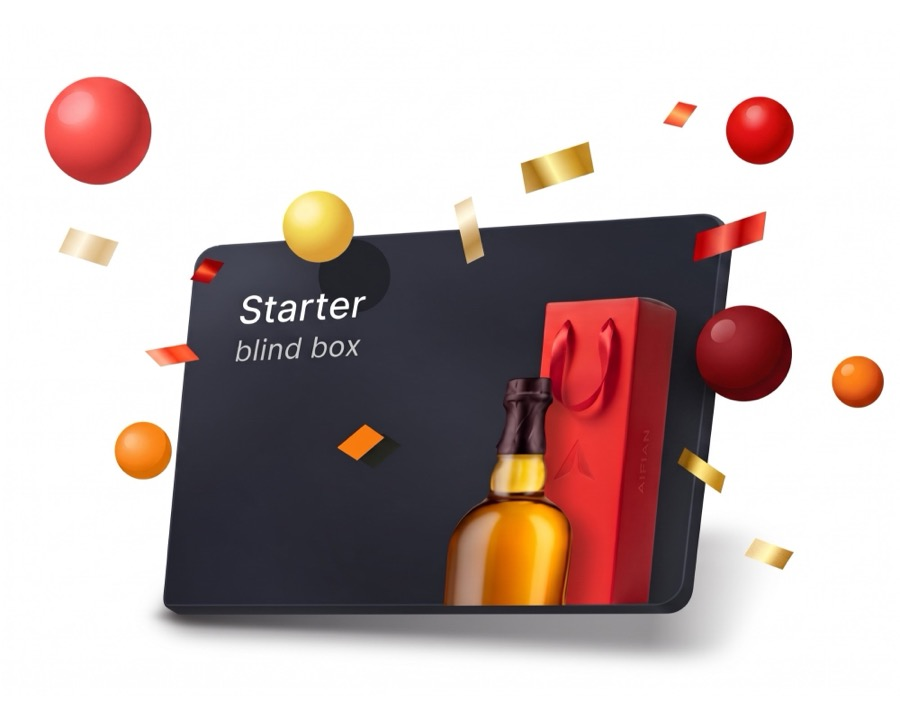
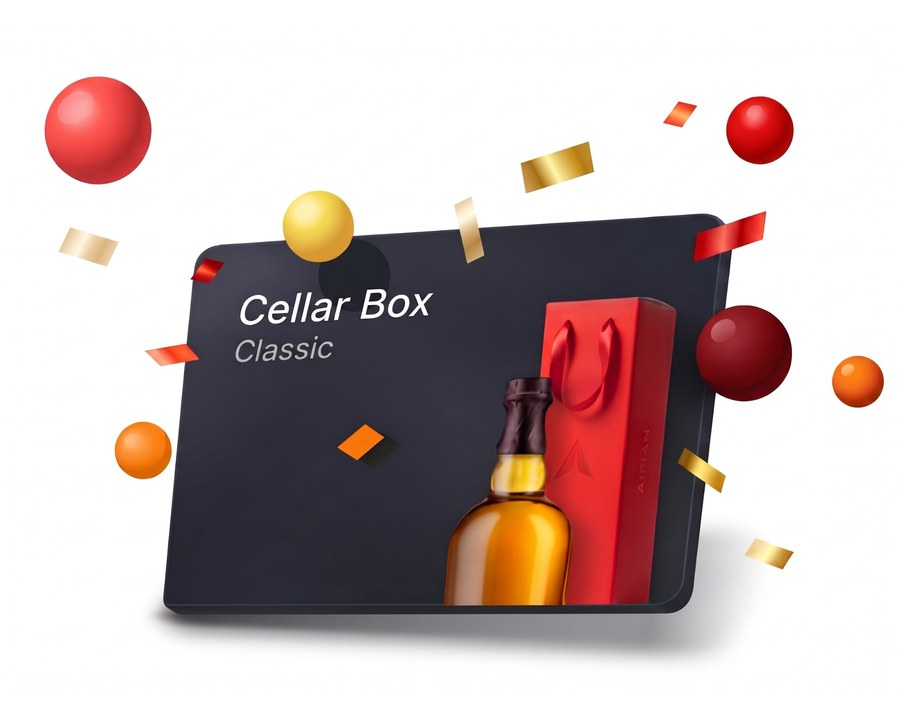
v14 酒品盲盒改名藏酒盒，名莊藏酒盒內頁改深色版型
- 名稱改為經典藏酒盒／名莊藏酒盒，兌換頁區塊標題改為「藏酒盒」
- 名莊藏酒盒內頁改 gray/800 深色底，拿掉概覽標題與粗體首句
- 盒內酒款改成酒單列表，不放酒瓶照與單支市值
- 層級配色改為金、棕、藍
- 怎麼開改成單卡三欄（編號、圖示、文字），更新步驟文案
- 更新兩盒的商品圖、禮物紀錄圖與開禮物結果圖（去背）

Changed region(s): [[0.2489, 0.3972, 0.4978, 0.5194]]

diff --git a/app/v14/_components/ProductSheet.tsx b/app/v14/_components/ProductSheet.tsx
@@ -26,6 +26,23 @@ const SHEET_TOP_GAP = 72;
 // 位置各自貼著它說明的東西，但看起來要是同一類的字
 const NOTE_CLASS = "text-[13px] leading-[1.6] text-[#a1a5ac]";
 
+// 「怎麼開」三步的線條圖示：收到禮物、拆開盒子、存進酒窖（酒瓶）
+const STEP_ICONS = [
+  <>
+    <rect x="3" y="8" width="18" height="4" rx="1" />
+    <path d="M12 8v13M19 12v7a2 2 0 0 1-2 2H7a2 2 0 0 1-2-2v-7" />
+    <path d="M7.5 8a2.5 2.5 0 0 1 0-5C10 3 12 8 12 8s2-5 4.5-5a2.5 2.5 0 0 1 0 5" />
+  </>,
+  <>
+    <path d="M12 3 20 7.5v9L12 21l-8-4.5v-9L12 3Z" />
+    <path d="m4 7.5 8 4.5 8-4.5M12 12v9" />
+  </>,
+  <>
+    <path d="M10 2h4M10.5 2v4.5c0 .8-.5 1.4-1.1 1.9A4.5 4.5 0 0 0 7.5 12v8a2 2 0 0 0 2 2h5a2 2 0 0 0 2-2v-8a4.5 4.5 0 0 0-1.9-3.6c-.6-.5-1.1-1.1-1.1-1.9V2" />
+    <path d="M7.5 14h9" />
+  </>,
+];
+
 // 注意事項小字：前面帶一個點，一眼看得出是條列的提醒。
 // 點跟文字分成兩欄，第二行會對齊第一行的文字，不會繞到點的下面
 function Note({
@@ -134,22 +151,33 @@ export default function ProductSheet({
   // 酒品盲盒也是一般商品，細節內容（盒內酒款、價值區間、機率）從盲盒資料產生
   const detail = blindBoxDetail(card.id) ?? PRODUCT_DETAILS[card.id];
   const added = addedIds.includes(card.id);
+  // 名莊藏酒盒（有機率卡的盒子）整頁用深色底，跟一般商品的白底區隔出收藏感；
+  // 機率卡、保底區塊、怎麼開這幾段只有深色版，共用的標題、價格、概覽、底部操作列才需要分兩套
+  const dark = !!detail?.odds;
+  const ink = dark ? "text-white" : "text-gray-800";
   // 概覽：一般商品放在價格下面第一段；盲盒（有機率卡）也放最上面，先講盒裡是什麼酒，
-  // 再接保底區塊與盒內酒款
+  // 再接保底區塊與盒內酒款。名莊藏酒盒（深色頁）不放「概覽 by AIFIAN」標題，
+  // 第一句也不用粗體，價格下面直接接一段介紹
   const overviewBlock = detail && (
     <div className="mt-7">
-      <div className="mb-3 flex items-center justify-between">
-        <p className="text-[15px] font-bold text-gray-800">概覽</p>
-        <p className="text-[13px] text-[#a1a5ac]">
-          {detail.overviewSource ?? "AI 整理"}
-        </p>
-      </div>
+      {!dark && (
+        <div className="mb-3 flex items-center justify-between">
+          <p className={`text-[15px] font-bold ${ink}`}>概覽</p>
+          <p className="text-[13px] text-[#a1a5ac]">
+            {detail.overviewSource ?? "AI 整理"}
+          </p>
+        </div>
+      )}
       {detail.overviewLead && (
-        <p className="mb-3 text-[16px] font-bold leading-[1.6] text-gray-800">
+        <p className={`mb-3 text-[16px] leading-[1.6] ${dark ? "" : "font-bold"} ${ink}`}>
           {detail.overviewLead}
         </p>
       )}
-      <p className="whitespace-pre-line text-[16px] leading-[1.6] text-gray-800">
+      <p
+        className={`whitespace-pre-line text-[16px] leading-[1.6] ${
+          dark ? "text-white/75" : "text-gray-800"
+        }`}
+      >
         {detail.overview}
       </p>
     </div>
@@ -207,7 +235,7 @@ export default function ProductSheet({
           if (Math.abs(dx) > 45 && Math.abs(dx) > Math.abs(dy))
             nav(dx < 0 ? 1 : -1);
         }}
-        className={`absolute flex flex-col overflow-hidden bg-white ${
+        className={`absolute flex flex-col overflow-hidden ${dark ? "bg-gray-800" : "bg-white"} ${
           isSheet
             ? "inset-x-0 bottom-0 rounded-t-[20px] shadow-[0_-8px_24px_rgba(0,0,0,0.12)]"
             : "inset-0"
@@ -260,13 +288,15 @@ export default function ProductSheet({
             />
 
             <div className="px-5 pb-6 pt-[18px]">
-              <p className="text-[21px] font-medium leading-[1.4] text-gray-800">
+              <p className={`text-[21px] font-medium leading-[1.4] ${ink}`}>
                 {detail?.fullName ?? card.name}
               </p>
               {/* 價格：跟兌換列表、對話商品卡同一套說法，原價加刪除線、下面是折抵後要付的，
                   點進來不會又變回原價。試算扣掉購物車裡其他商品已經佔掉的回饋 */}
               <div className="mt-2.5 flex flex-col gap-1">
-                <p className="text-[13px] leading-4 text-[#4a5565]">
+                <p
+                  className={`text-[13px] leading-4 ${dark ? "text-white/60" : "text-[#4a5565]"}`}
+                >
                   折抵後價格{" "}
                   <span className="line-through">
                     NT$ {card.price.toLocaleString()}
@@ -274,7 +304,7 @@ export default function ProductSheet({
                 </p>
                 <p
                   className={`text-[24px] font-bold ${
-                    priced.fullyCovered ? "text-brand" : "text-gray-800"
+                    priced.fullyCovered ? "text-brand" : ink
                   }`}
                 >
                   NT$ {money0(priced.shortfall)}
@@ -284,12 +314,12 @@ export default function ProductSheet({
               {detail?.odds && overviewBlock}
 
               {/* 盒內酒款：參考 IcyBox 的 What's inside，每一層一個標題（色塊＋機率＋價值區間），
-                  底下三欄酒款卡（酒瓶照、市值、酒名），一眼看到會開到什麼。用格狀不用橫向捲動，
+                  底下是酒單列表（只有酒名），一眼看到會開到什麼。不用橫向捲動，
                   才不會跟細節頁左右滑換商品的手勢打架 */}
               {detail?.odds && (
                 <div className="mt-7">
                   <div className="mb-3 flex items-baseline justify-between">
-                    <p className="text-[15px] font-bold text-gray-800">盒內酒款</p>
+                    <p className="text-[15px] font-bold text-white">盒內酒款</p>
                     <p className="text-[13px] text-[#a1a5ac]">
                       {detail.odds.tiers.reduce((n, t) => n + t.wines.length, 0)} 款
                     </p>
@@ -306,40 +336,47 @@ export default function ProductSheet({
                             >
                               {t.label}
                             </span>
-                            <p className="mt-1 text-[13px] text-gray-500">{t.range}</p>
+                            <p className="mt-1 text-[13px] text-white/55">{t.range}</p>
                           </div>
                           <p className="shrink-0 leading-none">
-                            <span className="mr-1 text-[12px] text-gray-500">機率</span>
-                            <span className="text-[24px] font-bold tabular-nums text-gray-800">
+                            <span className="mr-1 text-[12px] text-white/55">機率</span>
+                            <span className="text-[24px] font-bold tabular-nums text-white">
                               {t.pct}%
                             </span>
                           </p>
                         </div>
-                        <div className="mb-3 mt-2 h-1.5 overflow-hidden rounded-full bg-gray-100">
+                        <div className="mb-3 mt-2 h-1.5 overflow-hidden rounded-full bg-white/10">
                           <div
                             className="h-full rounded-full"
                             style={{ width: `${Math.max(t.pct, 2)}%`, background: t.color }}
                           />
                         </div>
-                        <div className="grid grid-cols-3 gap-x-2.5 gap-y-4">
+                        {/* 酒單列表：不放酒瓶照、不放單支市值（層級標題已有價值區間），一支酒一行，點了開酒款細節頁 */}
+                        <div className="flex flex-col">
                           {t.wines.map((w) => (
                             <button
                               key={w.id}
                               type="button"
                               onClick={() => WINE_DETAILS[w.id] && setWineId(w.id)}
-                              className="min-w-0 text-left"
+                              className="flex min-w-0 items-center gap-3 border-t border-white/10 py-3 text-left"
                             >
-                              <img
-                                src={w.image}
-                                alt=""
-                                className="aspect-square w-full rounded-[10px] object-cover"
-                              />
-                              <p className="mt-1.5 text-[14px] font-bold text-gray-800">
-                                {w.value}
-                              </p>
-                              <p className="mt-0.5 line-clamp-2 text-[12px] leading-[1.4] text-gray-600">
+                              <p className="line-clamp-2 min-w-0 flex-1 text-[14px] leading-[1.4] text-white/90">
                                 {w.name}
                               </p>
+                              <svg
+                                width="16"
+                                height="16"
+                                viewBox="0 0 24 24"
+                                fill="none"
+                                stroke="#a1a5ac"
+                                strokeWidth="2"
+                                strokeLinecap="round"
+                                strokeLinejoin="round"
+                                className="-ml-1 shrink-0"
+                                aria-hidden
+                              >
+                                <path d="m9 6 6 6-6 6" />
+                              </svg>
                             </button>
                           ))}
                         </div>
@@ -353,9 +390,9 @@ export default function ProductSheet({
                   各層級機率已經寫在盒內酒款的層級標題，這裡不再重複 */}
               {detail?.odds && (
                 <div className="mt-6 overflow-hidden rounded-[16px]">
-                  {/* 保底跟最高市值是買之前最想知道的兩個數字：深色底、大字。
+                  {/* 保底跟最高市值是買之前最想知道的兩個數字：比頁面亮一階的深灰底、大字。
                       不用紅色，紅色留給結帳按鈕 */}
-                  <div className="flex bg-gray-800 px-[18px] py-4">
+                  <div className="flex bg-white/[0.08] px-[18px] py-4">
                     <div className="min-w-0 flex-1">
                       <p className="text-[13px] text-white/60">保底市值</p>
                       <p className="mt-1 text-[24px] font-bold leading-8 text-white">
@@ -375,32 +412,28 @@ export default function ProductSheet({
               {/* 怎麼開：三步，一步一句，取代長段說明 */}
               {detail?.odds && (
                 <div className="mt-7">
-                  <p className="mb-3 text-[15px] font-bold text-gray-800">怎麼開</p>
-                  {/* 步驟之間放箭頭，順序一眼看得出來 */}
-                  <div className="flex items-center gap-1">
+                  <p className="mb-3 text-[15px] font-bold text-white">怎麼開</p>
+                  {/* 一張卡分三欄，中間細線隔開；每欄由上往下是步驟編號、圖示（禮物、盒子、酒瓶）、一句話 */}
+                  <div className="flex rounded-[16px] bg-white/[0.06] px-1 py-4">
                     {detail.odds.steps.map((s, i) => (
                       <Fragment key={s}>
-                        {i > 0 && (
+                        {i > 0 && <div aria-hidden className="w-px shrink-0 bg-white/10" />}
+                        <div className="flex min-w-0 flex-1 flex-col items-center gap-1.5 px-1 text-center">
+                          <span className="text-[12px] tabular-nums text-white/50">{i + 1}</span>
                           <svg
-                            width="16"
-                            height="16"
+                            width="26"
+                            height="26"
                             viewBox="0 0 24 24"
                             fill="none"
-                            stroke="#a1a5ac"
-                            strokeWidth="2.4"
+                            stroke="white"
+                            strokeWidth="1.6"
                             strokeLinecap="round"
                             strokeLinejoin="round"
-                            className="shrink-0"
                             aria-hidden
                           >
-                            <path d="m9 6 6 6-6 6" />
+                            {STEP_ICONS[i]}
                           </svg>
-                        )}
-                        <div className="flex min-w-0 flex-1 flex-col items-center gap-2 rounded-[12px] bg-[#f5f5f6] px-1.5 py-3 text-center">
-                          <span className="flex size-6 items-center justify-center rounded-full bg-gray-800 text-[12px] font-semibold text-white">
-                            {i + 1}
-                          </span>
-                          <p className="text-[13px] leading-[1.4] text-gray-800">{s}</p>
+                          <p className="mt-0.5 whitespace-pre-line text-[13px] leading-[1.4] text-white/90">{s}</p>
                         </div>
                       </Fragment>
                     ))}
@@ -525,10 +558,16 @@ export default function ProductSheet({
 
         {/* 底部固定的操作列（照參考圖）：左邊文字按鈕「繼續聊」帶著這個商品回對話，
             右邊兩顆膠囊按鈕是加入購物車跟立即結帳 */}
-        <div className="flex shrink-0 items-center gap-2.5 border-t border-[#eef0f1] bg-white px-4 pb-[calc(12px+env(safe-area-inset-bottom))] pt-3">
+        <div
+          className={`flex shrink-0 items-center gap-2.5 border-t px-4 pb-[calc(12px+env(safe-area-inset-bottom))] pt-3 ${
+            dark ? "border-white/10 bg-gray-800" : "border-[#eef0f1] bg-white"
+          }`}
+        >
           <button
             onClick={() => onAsk(card)}
-            className="flex shrink-0 items-center gap-1 px-1.5 text-[15px] text-[#4a5565]"
+            className={`flex shrink-0 items-center gap-1 px-1.5 text-[15px] ${
+              dark ? "text-white/70" : "text-[#4a5565]"
+            }`}
           >
             <svg
               width="20"
@@ -568,7 +607,9 @@ export default function ProductSheet({
           ) : (
             <button
               onClick={() => onToggleCart(card)}
-              className="flex h-11 flex-1 items-center justify-center rounded-full border-[1.5px] border-gray-800 text-[15px] font-semibold text-gray-800"
+              className={`flex h-11 flex-1 items-center justify-center rounded-full border-[1.5px] text-[15px] font-semibold ${
+                dark ? "border-white text-white" : "border-gray-800 text-gray-800"
+              }`}
             >
               加入購物車
             </button>

diff --git a/app/v14/_lib/blindbox.ts b/app/v14/_lib/blindbox.ts
@@ -24,11 +24,12 @@ export const TIER_LABEL: Record<Tier, string> = {
   select: "精選",
 };
 
-// 機率卡上的層級色塊：參考 IcyBox 的 Grail 黃、Epic 紫、Rare 藍
+// 機率卡上的層級色塊：金、棕、藍。不用遊戲寶物常見的黃紫藍，避免抽卡聯想；
+// 精選用比原本亮藍柔一點的藍，在深色底上看得清楚
 export const TIER_COLOR: Record<Tier, { bg: string; text: string }> = {
-  top: { bg: "#FACC15", text: "#3F3100" },
-  rare: { bg: "#A855F7", text: "#FFFFFF" },
-  select: { bg: "#3B82F6", text: "#FFFFFF" },
+  top: { bg: "#E2B84B", text: "#3A2A00" },
+  rare: { bg: "#A86B43", text: "#FFFFFF" },
+  select: { bg: "#5B8DEF", text: "#FFFFFF" },
 };
 
 // 細節頁酒款卡的示意酒瓶照：還沒有每支酒的商品照，先依酒類放一張
@@ -87,7 +88,7 @@ const wine = (
 export const BLIND_BOXES: BlindBox[] = [
   {
     id: "starter",
-    name: "入門盒",
+    name: "經典",
     price: 1200,
     floor: 1200,
     odds: { top: 0.5, rare: 12, select: 87.5 },
@@ -113,7 +114,7 @@ export const BLIND_BOXES: BlindBox[] = [
   },
   {
     id: "advanced",
-    name: "進階盒",
+    name: "名莊",
     // 保底跟售價一樣：盒內最便宜的是 4,800 的拉・里奧特，售價就定在這裡
     price: 4800,
     floor: 4800,
@@ -148,7 +149,7 @@ const PRODUCT_PREFIX = "blindbox-";
 
 export const BLIND_BOX_PRODUCTS = BLIND_BOXES.map((b) => ({
   id: `${PRODUCT_PREFIX}${b.id}`,
-  name: `酒品盲盒・${b.name}`,
+  name: `${b.name}藏酒盒`,
   subtitle: `保證市值 NT$${b.floor.toLocaleString()} 以上`,
   price: b.price,
   image: `/v14/blindbox/${b.id}.jpg`,
@@ -251,7 +252,7 @@ export function blindBoxDetail(productId: string): ProductDetail | undefined {
     .join("\n\n");
   return {
     // 細節頁標題跟兌換頁列表用同一個名稱
-    fullName: `酒品盲盒・${box.name}`,
+    fullName: `${box.name}藏酒盒`,
     overviewSource: "by AIFIAN",
     // 概覽第一句就講最高可以開到什麼，用粗體強調
     overviewLead: `有機會開出市值 ${money(top.value)} 的${top.name}`,
@@ -298,7 +299,7 @@ export function blindBoxDetail(productId: string): ProductDetail | undefined {
               })),
           })),
           note: "各層級機率固定，不會因為開出而改變。市值以台灣售價為準。",
-          steps: ["付款收到禮物", "我的禮物拆開", "存進我的酒窖"],
+          steps: ["結帳後，\n收到禮物", "在「我的禮物」\n拆開", "存進\n我的酒窖"],
           legal: [
             "付款即完成交易，不提供退款。未滿 18 歲請勿購買。",
             "禁止酒駕　飲酒過量，有害健康",

diff --git a/app/v14/(tabs)/exchange/page.tsx b/app/v14/(tabs)/exchange/page.tsx
@@ -306,7 +306,7 @@ export default function ExchangePage() {
             一般商品區隔開，卡片本身跟其他商品同一款 */}
         <div className="bg-[#f3f4f6] py-2">
           <ProductRow
-            title="酒品盲盒"
+            title="藏酒盒"
             subtitle="開出的每一瓶，都值回售價"
             products={BLIND_BOX_PRODUCTS}
             onOpen={(i) => setSheet({ cards: BLIND_BOX_CARDS, index: i })}
